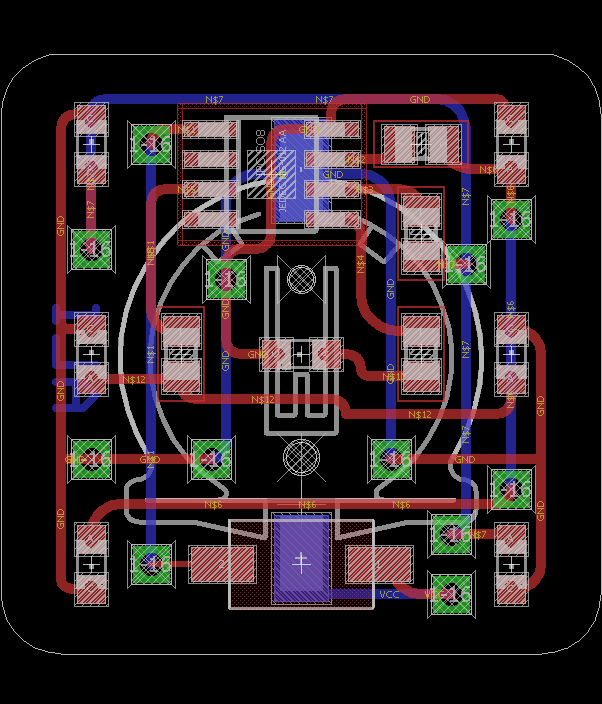
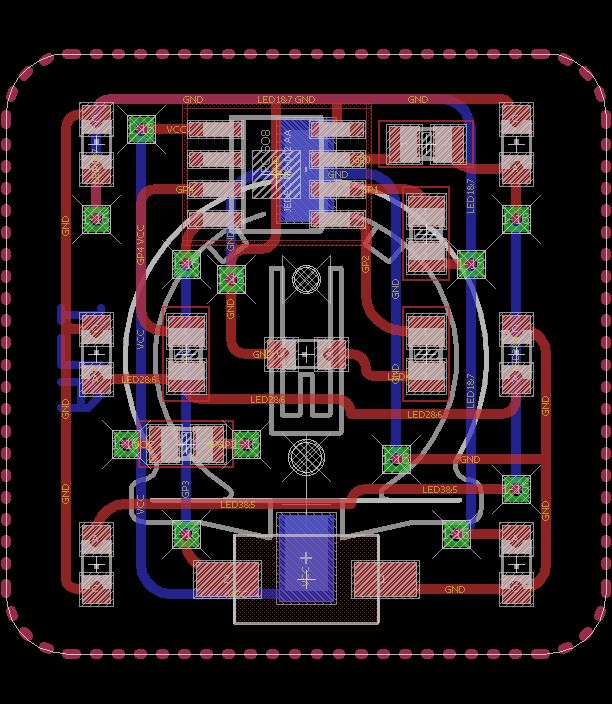
Revision 2

Changed region(s): [[0.0, 0.0625, 1.0, 0.9375]]

diff --git a/README.md b/README.md
@@ -1,14 +1,18 @@
 # A small 1 Inch square Dice
-A simple dice using a Microchip PIC12F629 microcontroller
+This is a simple dice design using Microchip PIC12F1822 microcontroller.
+
+## Notes
+There is no any space left on the PCB for ICSP header.
+Microcontrollers are programmed via a SOIC to DIP adapter and then are soldered to dice PCBs.
+I am currently using another Microchip MCU (12F1822) rather than PIC12F629 used in the original design.
 
 ## Schematic
 ![Schematic snapshot](schematic.png)
 
-## PCB
+## PCB (without copper pour)
 ![PCB snapshot](PCB.png)
 
-
-## Assembled board
+## Assembled dice (Rev 1)
 ![Assembled board](Board.jpg)
 
 # Credits
@@ -18,7 +22,7 @@ This project is more or less based on [Colin Mitchell's article](http://www.talk
 It would be much better to keep the PIC always powered on but in Sleep mode or Watchdog timer.
 After switch is pressed, PIC should resume normal operation and roll the dice.
 Then it could switch back to Sleep mode one minute after showing the result.
-I have to study PIC12F1822 (which I am currently using) documentation to learn how to use Sleep mode.
+I have to study PIC12F1822 documentation to learn how to use it's Sleep mode.
 
 # License
 This hardware is licensed under [Creative Commons Share Alike](http://creativecommons.org/licenses/by-sa/4.0/).
